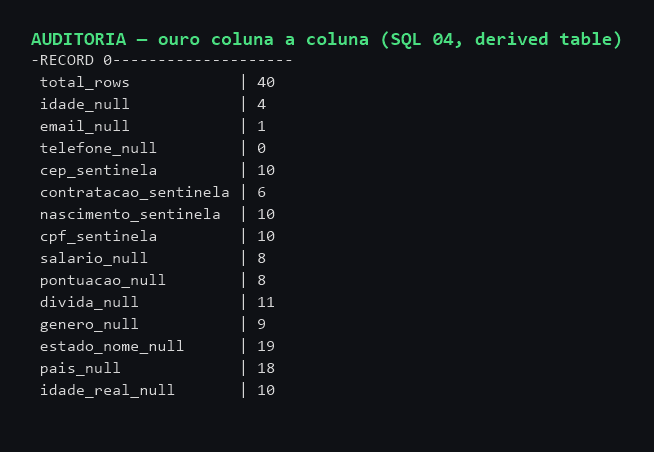
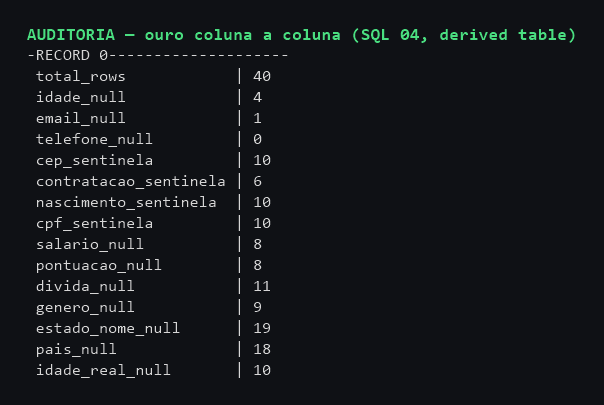
Divide o print do ouro em grupos de 4 colunas

Changed region(s): [[0.0298, 0.0593, 0.447, 0.9481], [0.596, 0.0593, 0.9536, 0.1185], [0.4768, 0.0593, 0.5662, 0.1185]]

diff --git a/README.md b/README.md
@@ -6,7 +6,22 @@
 
 ![Auditoria coluna a coluna](imagens/print_auditoria.png)
 
-![Ouro: top 10 registros limpos](imagens/print_ouro.png)
+<details>
+<summary>Ouro: resultado coluna a coluna (22 colunas, top 10 registros)</summary>
+
+![Ouro 1/6: id | nome | idade | email](imagens/print_ouro_1.png)
+
+![Ouro 2/6: telefone | endereco | cidade | estado](imagens/print_ouro_2.png)
+
+![Ouro 3/6: estado_nome | cep | pais | empresa](imagens/print_ouro_3.png)
+
+![Ouro 4/6: cargo | salario | data_contratacao | data_nascimento](imagens/print_ouro_4.png)
+
+![Ouro 5/6: idade_real | cpf | cartao_credito | pontuacao_credito](imagens/print_ouro_5.png)
+
+![Ouro 6/6: divida | genero](imagens/print_ouro_6.png)
+
+</details>
 
 Desafio (fonte: Emerson Costa) resolvido em Databricks SQL. A base tem 40 registros sujos, cada um quebrando uma ou mais das 13 regras de negócio, e tudo é tratado em uma única consulta, com auditoria coluna a coluna no final.
 
